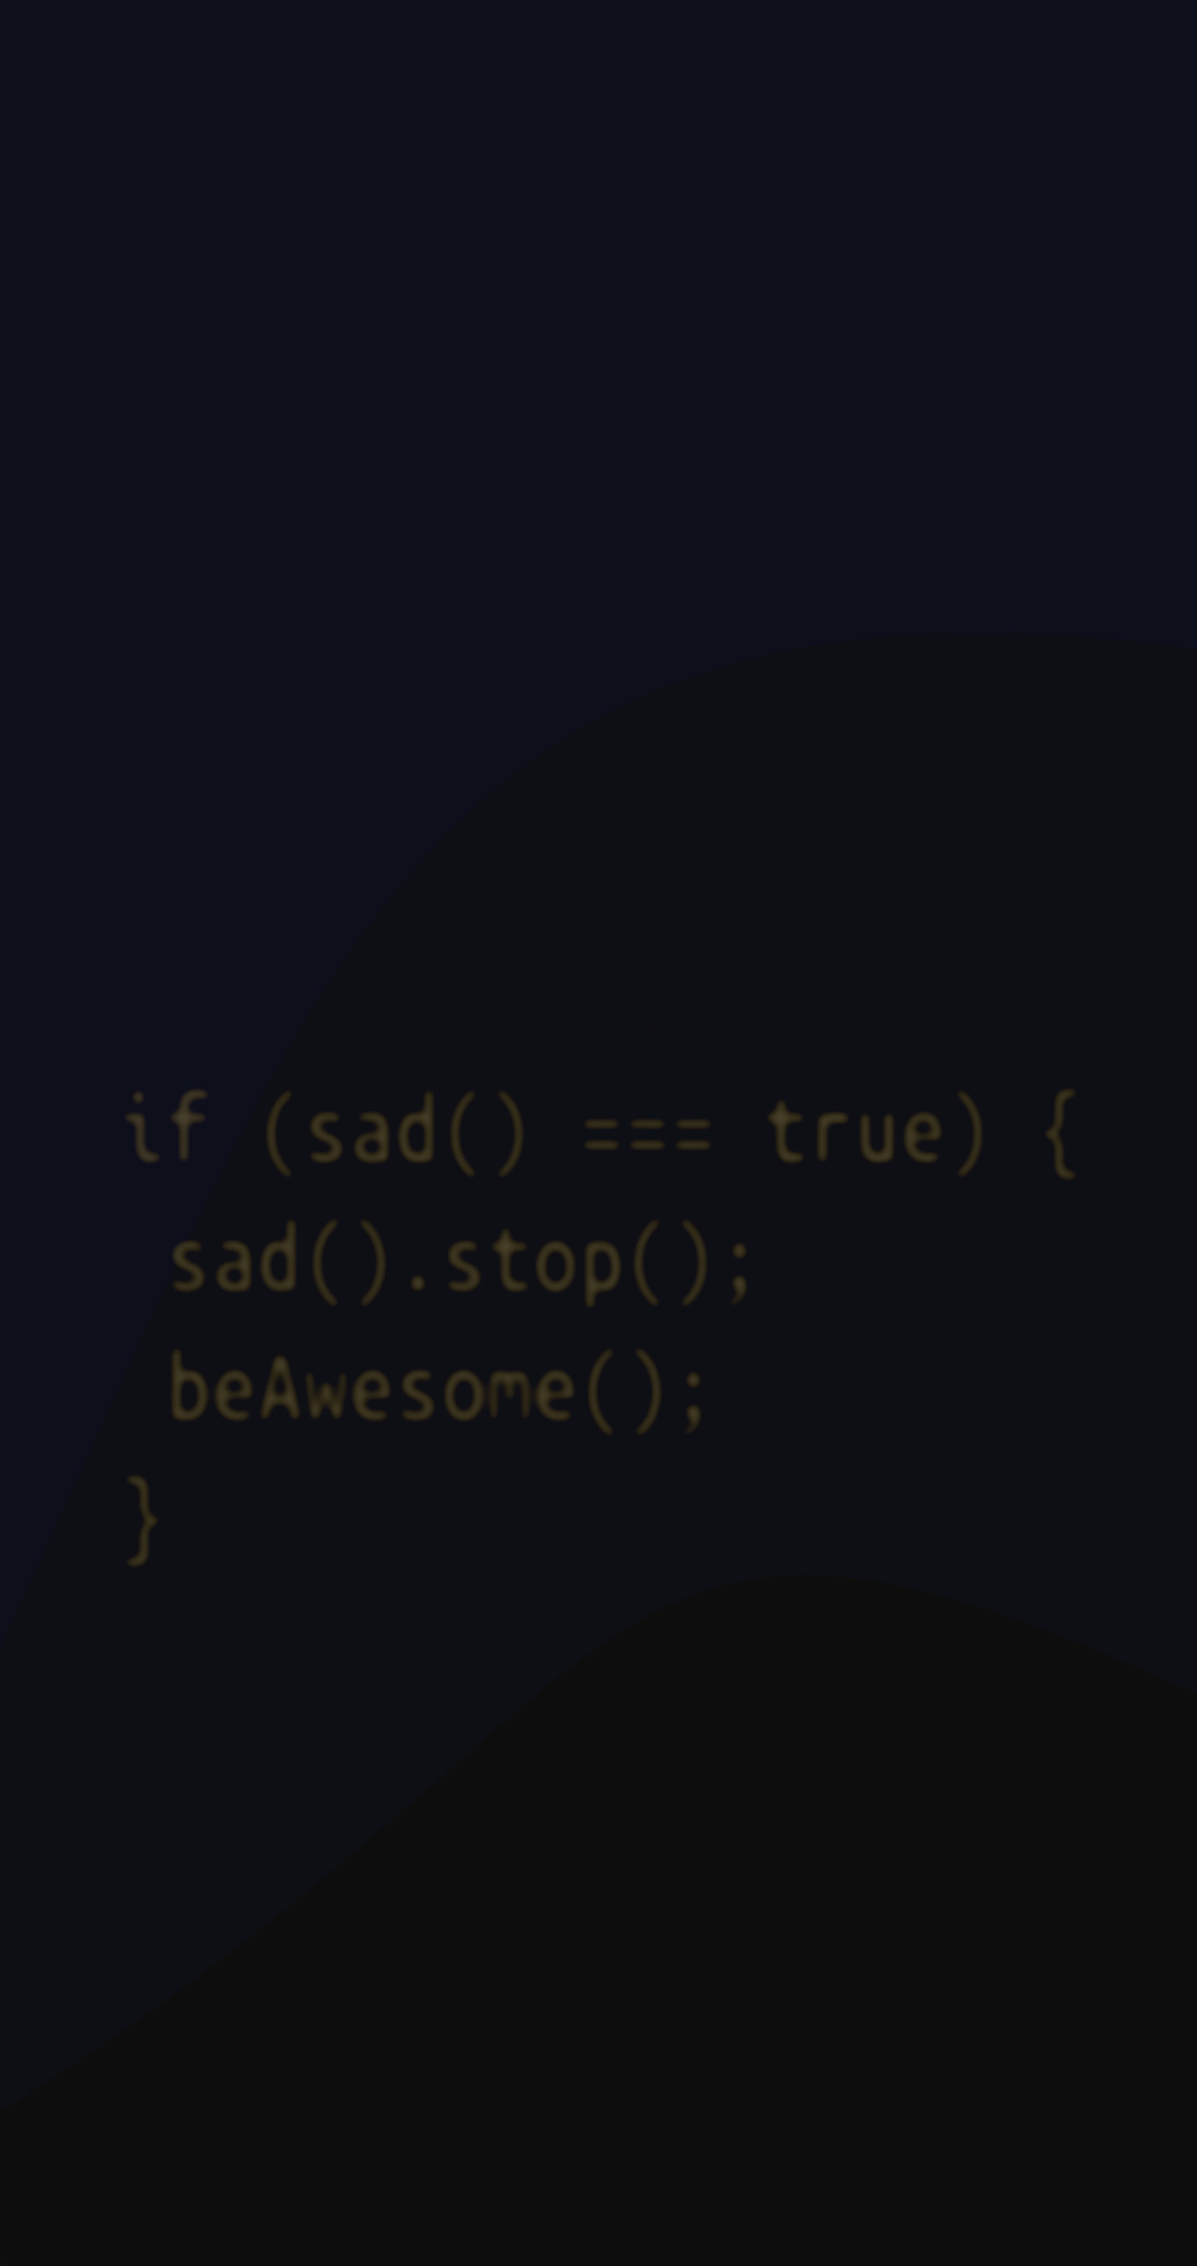
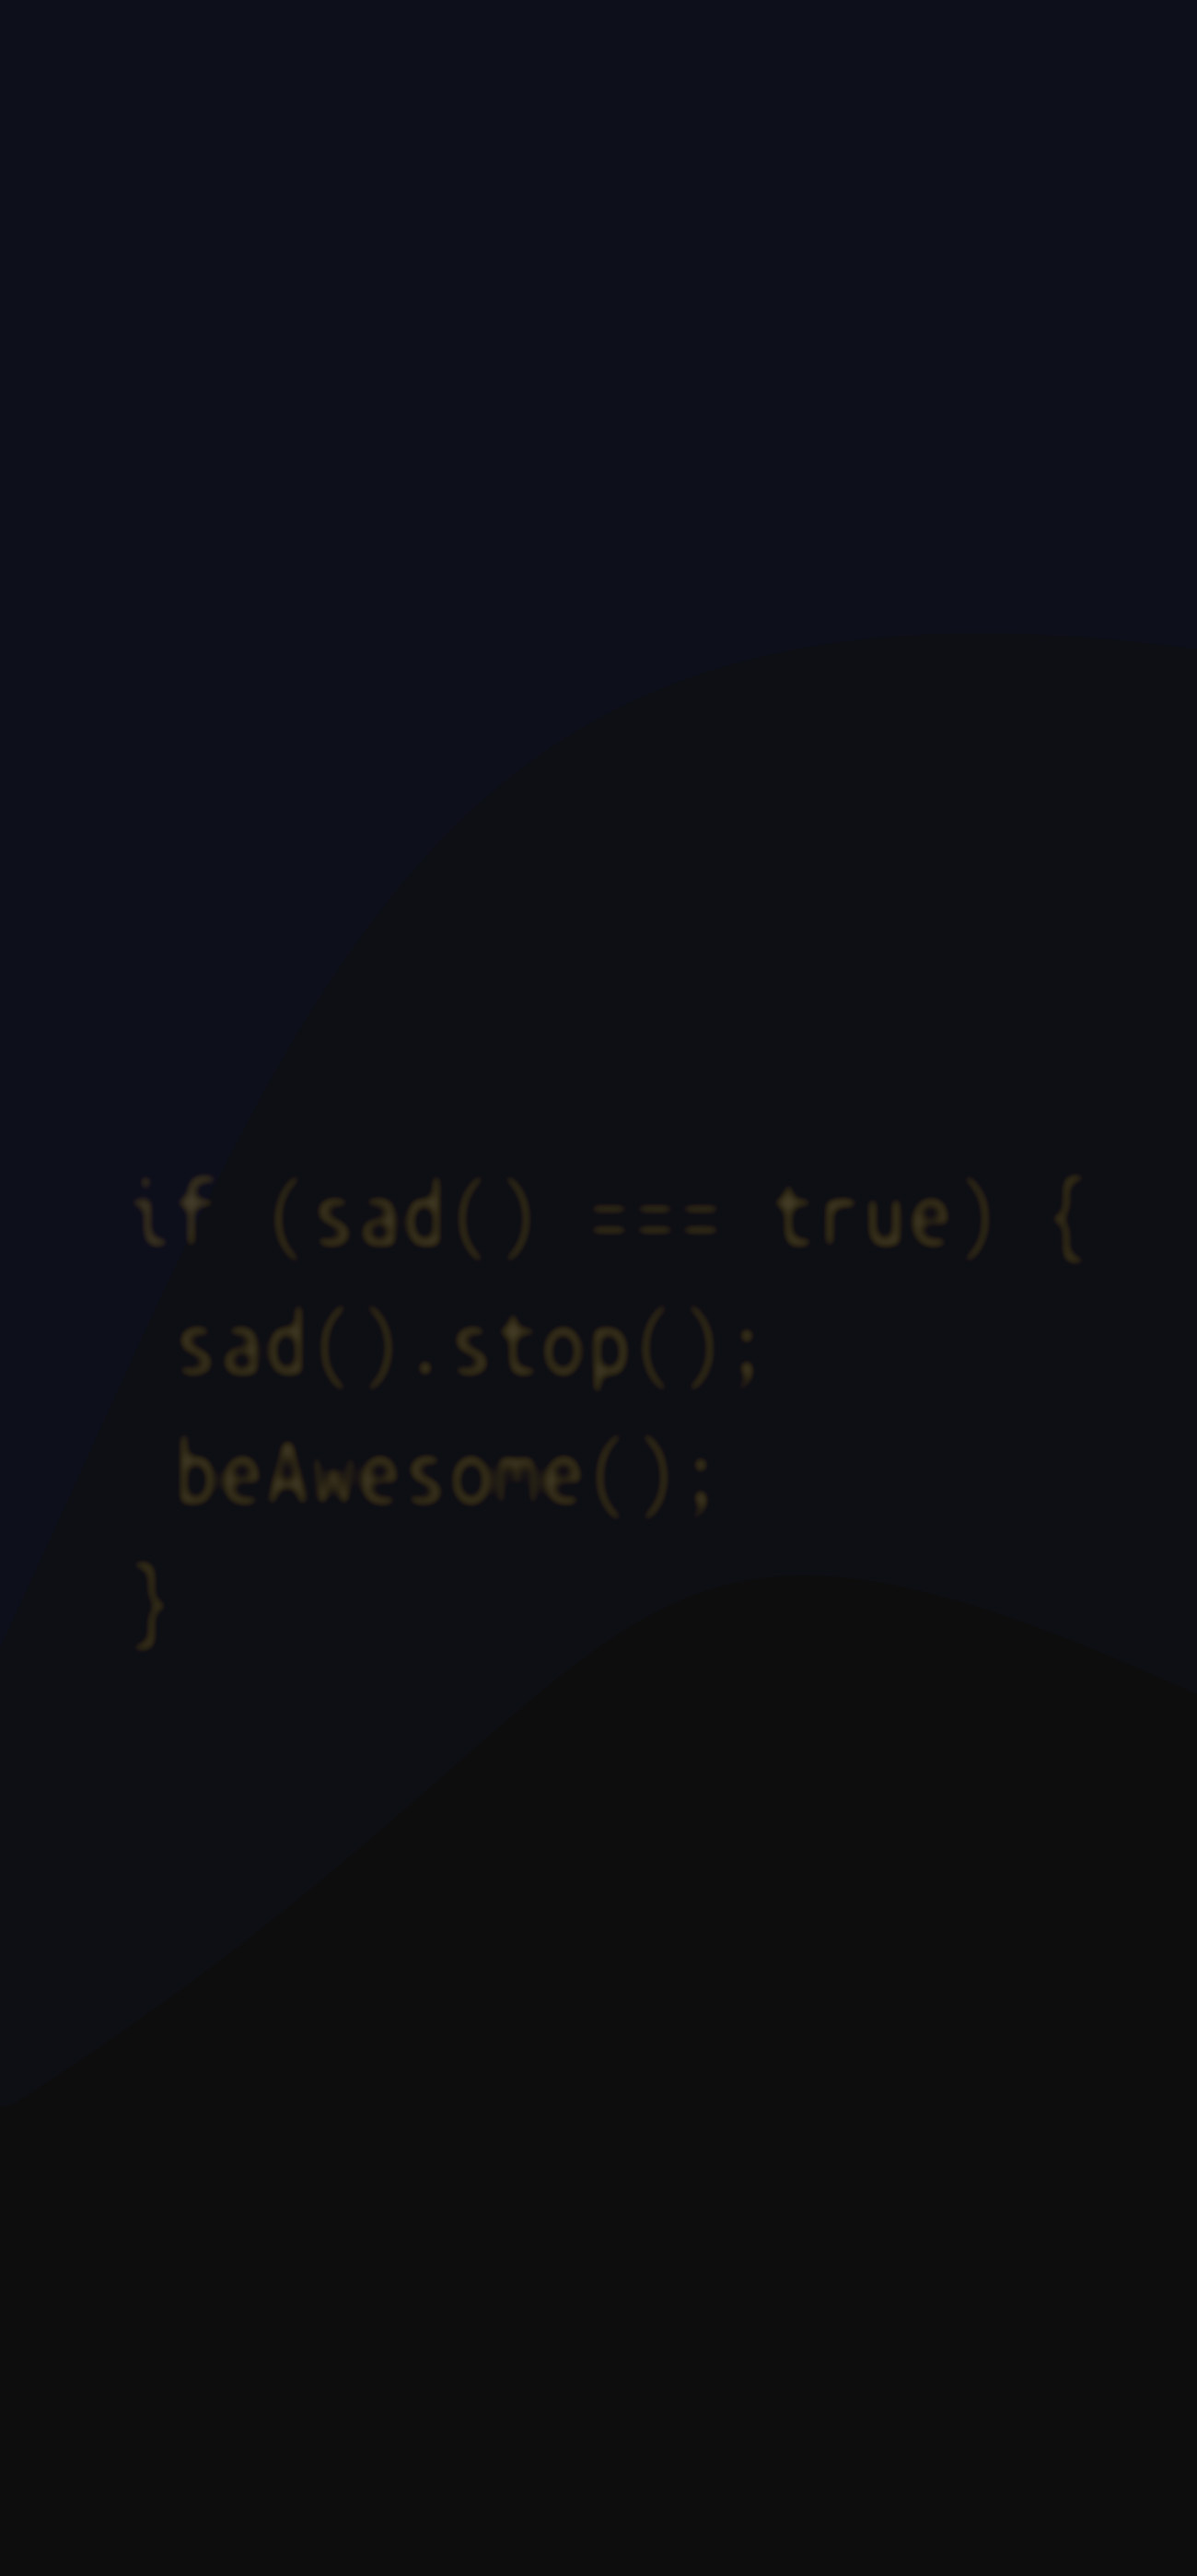
background

diff --git a/test/test.html b/test/test.html
@@ -1,5 +1,6 @@
 <!DOCTYPE html>
 <html lang="en">
+
 <head>
     <meta charset="UTF-8">
     <meta http-equiv="X-UA-Compatible" content="IE=edge">
@@ -7,32 +8,32 @@
     <link rel="stylesheet" href="test.css">
     <title>Document</title>
 </head>
+
 <body>
-    <section>
-        <main>
-            <h1>Digite os números para a comparação</h1>
-            <div id="div-operations">
-                <input type="number" name="valor" id="id-valor" step="1" max="999" min="-999">
-                <div id="operation-buttons">
-                    <button id="bt1" class="operators">></button>
-                    <button id="bt2" class="operators"><</button>
-                    <button id="bt3" class="operators">≥</button>
-                    <button id="bt4" class="operators">≤</button>
-                    <button id="bt5" class="operators">=</button>
-                    <button id="bt6" class="operators">≠</button>
-                </div>
-                <input type="number" name="valor2" id="id-valor2" step="1" max="999" min="-999">
+    <main>
+        <h1>Digite os números para a comparação</h1>
+        <div id="div-operations">
+            <input type="number" name="valor" id="id-valor" step="1" max="999" min="-999">
+            <div id="operation-buttons">
+                <button id="bt1" class="operators">></button>
+                <button id="bt2" class="operators">&lt;</button>
+                <button id="bt3" class="operators">≥</button>
+                <button id="bt4" class="operators">≤</button>
+                <button id="bt5" class="operators">=</button>
+                <button id="bt6" class="operators">≠</button>
             </div>
-            <div id="div-results">
-        
-            </div>
-            <div id="boolean-button">
-                <button class="sl">And</button>
-                <button class="sl">Or</button>
-            </div>
-        </main>
-    </section>
+            <input type="number" name="valor2" id="id-valor2" step="1" max="999" min="-999">
+        </div>
+        <div id="div-results">
+
+        </div>
+        <div id="boolean-button">
+            <button class="sl">And</button>
+            <button class="sl">Or</button>
+        </div>
+    </main>
 
     <script src="test.js"></script>
 </body>
+
 </html>

diff --git a/test/test.css b/test/test.css
@@ -32,15 +32,10 @@ body{
     font-family: var(--sono1);
     background-color: var(--corBg);
     color: white;
-}
-section{
     background-image: url(../images/BgOp.jpg);
-    transition: background-image .8s;
-    background-size:cover;
+    background-size: 100%;
     background-attachment: fixed;
-    background-repeat: repeat-y;
-    position: fixed;
-    padding: 20px;
+    height: 100vh;
 }
 input{
     display: inline-block;
